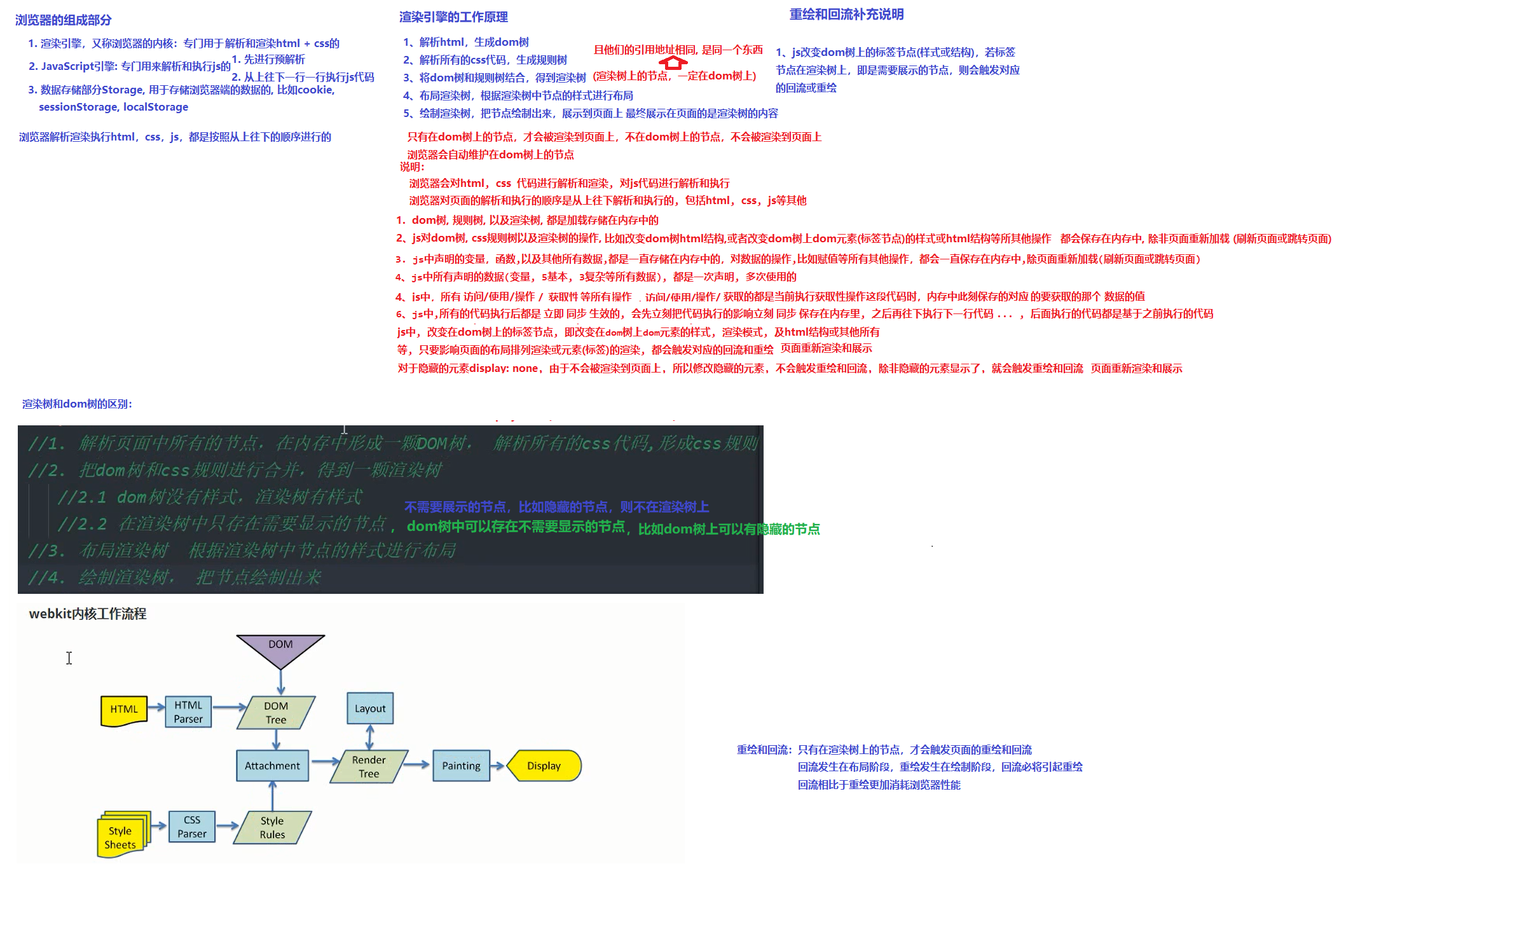
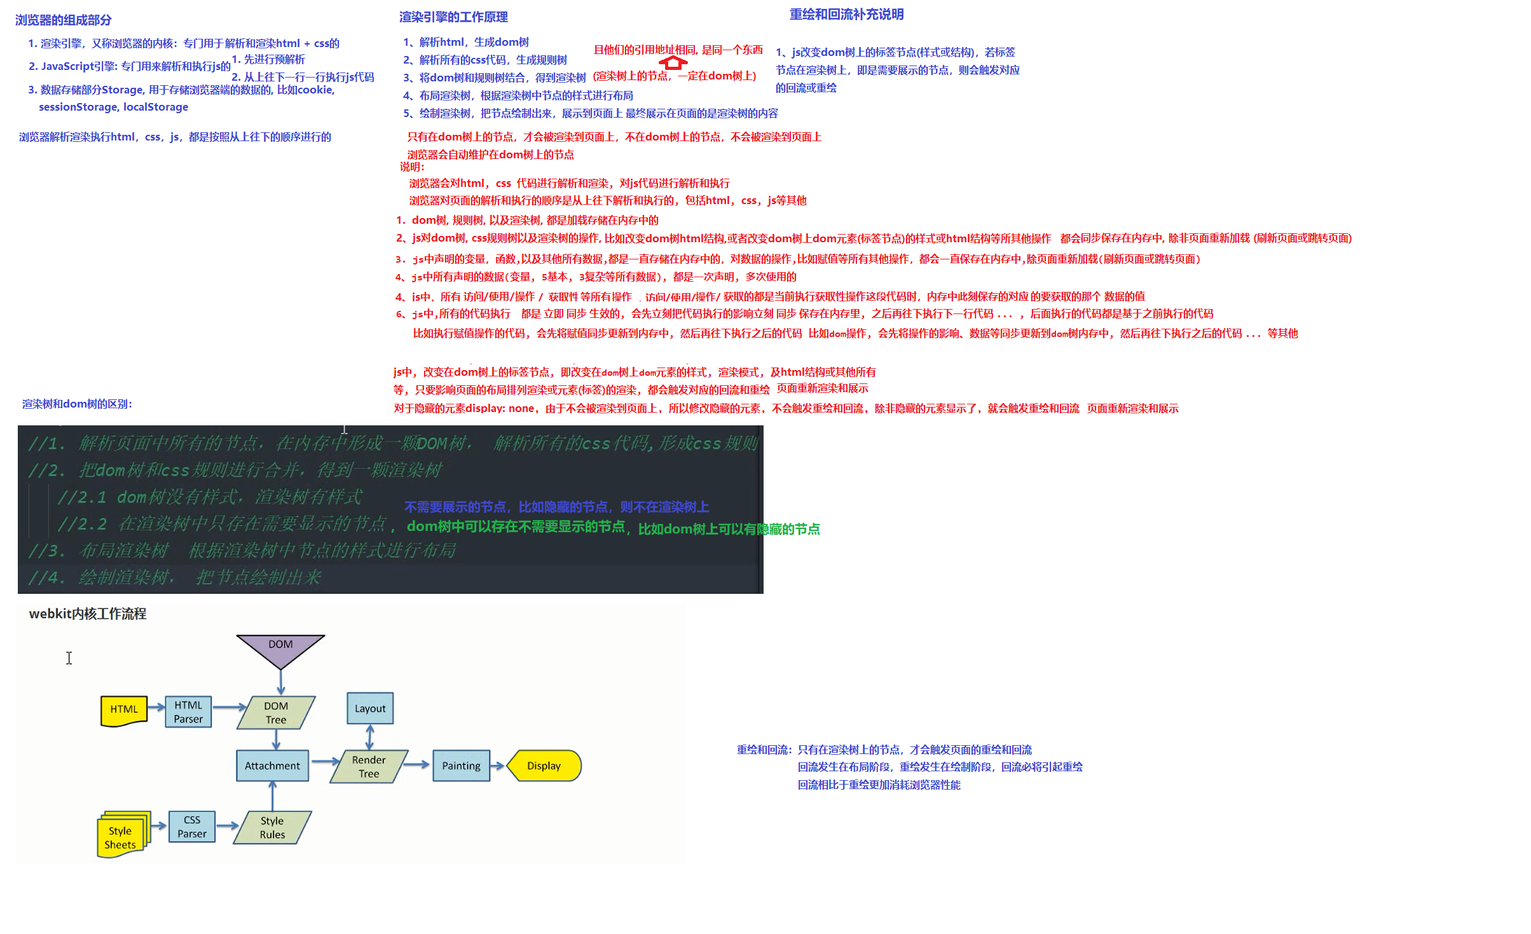
0316-02

Changed region(s): [[0.2492, 0.337, 0.8409, 0.4595], [0.7164, 0.2451, 0.8721, 0.2757]]

diff --git a/01-JavaScript基础/day01/02-代码/day01-code/12-字符串.html b/01-JavaScript基础/day01/02-代码/day01-code/12-字符串.html
@@ -9,12 +9,14 @@
     <script>
 
       // 简单数据类型 二  字符串类型  string
-      
+
       // 带有 ''单引号 或者 ""双引号  包裹的数据,,就是字符串
       // ★ 字符串要么都用单引号包裹, 要么都用双引号包裹
       // 单引号'' 和 双引号"" 包裹的数据, 都是字符串, 用'和"没差别
       // 即 '1' === "1"  => true
       // ''和""也是字符串, 且字符串中什么内容都没有, 也叫做空串, 空串长度为0
+
+      // 字符串也是基本数据类型之一, 即 字符串也是值类型数据, 存储的是值本身
 
       // 单引号性能比双引号好, 更快
 
@@ -32,8 +34,8 @@
       console.log(num2);
       console.log(typeof num2);
 
-      // 如何区分 数字类型和字符串类型 
-      //方式1 : 看有没有引号 
+      // 如何区分 数字类型和字符串类型
+      //方式1 : 看有没有引号
       //方式2 : typeof
       // 数字类型 => number
       // 字符串类型 =>string
@@ -42,17 +44,17 @@
       // ps: 通过console.log在控制台输出字符串, 是黑色的, 但是不会打印两边的"或' .
 
 
-      //1. 字符串的长度   length => 字符个数 是一个数字类型  
+      //1. 字符串的长度   length => 字符个数 是一个数字类型
       //   一个中文 占 一个长度 .   var str = '你好啊', str.length => 3
       var str = 'abcdefgdgd';
       console.log(str.length);  //10
-      
+
 
       //2. 转义符  一句话  :  我姓'熏',我叫孙悟空
-      //总结 : 
+      //总结 :
       //1. 引号可以相互嵌套的,,但是不能嵌套自己类型
       // 单引号可以嵌套双引号,双引号可以嵌套单引号, 嵌套之后还是一整个字符串, 单不能嵌套单,双不能嵌套双
-      //2. 转义符 
+      //2. 转义符
       // \' =>'
       // \" =>"
       // \\ => \
@@ -64,8 +66,8 @@
       console.log(num2); // 我姓"居",我叫猪八戒
 
       // var num3 = 我姓'瞎',我叫"沙"悟净
-      //转义符 \ 
-      // \' => ' 
+      //转义符 \
+      // \' => '
       // \" => "
       // \\ => \
       var num3 = '我姓\'瞎\',我叫"沙"悟净';
@@ -88,33 +90,33 @@
       var num2 = 10;
       console.log( num1 + num2); //30
       console.log(typeof (num1 + num2)); //number
-      
+
       // 第三种情况  字符串 + 数字 或 数字 + 字符串 => 拼接 => 结果是字符串string
       // var num1 = 'abc';
       // var num2 = 123;
-      // console.log(num1 + num2); //abc123 
+      // console.log(num1 + num2); //abc123
 
-      var num1 = '123'; 
+      var num1 = '123';
       var num2 = 123;
       console.log(num1 + num2); //123123
       console.log(typeof (num1 + num2));  //string
-      
-      
-
-      
 
 
 
-      
-      
-      
+
+
+
+
+
+
+
 
 
 
       //3.
-      
-      
-      
+
+
+
 
 
 

diff --git a/01-JavaScript基础/day01/02-代码/day01-code/01.js.html b/01-JavaScript基础/day01/02-代码/day01-code/01.js.html
@@ -23,10 +23,11 @@ js中, 后面只要没有说是异步的, 则都是同步执行的, 即要等到
     浏览器会对html, css 代码进行解析和渲染, 对js代码进行解析和执行
     浏览器对页面的解析和执行的顺序是从上往下解析和执行的, 包括html, css, js等其他.
 1. dom树,规则树,以及渲染树,都是加载存储在内存中的
-2. js对dom树, css规则树以及渲染树的操作,比如改变dom树htm结构,或者改变dom树上dom元素(标签节点)的样式或html结构等所其他操作都会保存在内存中, 除非页面重新加载(刷新页面或跳转页面)
+2. js对dom树, css规则树以及渲染树的操作,比如改变dom树htm结构,或者改变dom树上dom元素(标签节点)的样式或html结构等所其他操作都会同步保存在内存中, 除非页面重新加载(刷新页面或跳转页面)
 3. js中声明的变量，函数,以及其他所有数据,都是一直存储在内存中的，对数据的操作,比如赋值等所有其他操作，都会一直保存在内存中,除页面重新加载(刷新页面或跳转页面)
 4、js中所有声明的数据(变量, 5基本, 3复杂等所有数据), 都是一次声明, 多次使用的
 5、js中,所有访问/使用/操作/获取性等所有操作,获取的都是访问/使用/操作/获取当前执行获取性操作这段代码时，内存中此刻保存的对应的要获取的那个数据的值
-6、js中,所有的代码执行后都是 立即 同步 生效的, 会先立刻把代码执行的影响立刻 同步 保存在内存里, 之后再往下执行下一行代码 ... , 后面执行的代码都是基于之前执行的代码
+6、js中,所有的代码执行都是 立即 同步 生效的, 会先立刻把代码执行的影响立刻 同步 保存在内存里, 之后再往下执行下一行代码 ... , 后面执行的代码都是基于之前执行的代码
+   比如执行赋值操作的代码, 会先将赋值同步更新到内存中, 然后再往下执行之后的代码, 比如dom操作, 会先将操作的影响、数据等同步更新到dom树内存中, 然后再往下执行之后的代码 ... 等其他
 js中，改改在dom树上的标签节点，即改变在dom树上dom元素的样式渲染模式,及html结构或其他所有等,只要影响页面的布局排列渲染或元素(标签)的渲染，都会触发对应的回流和重绘
 对于隐藏的元素display: none,不会被渲染到页面上,所以修改隐藏的元素,不会触发重绘和回流，除非隐藏的元素显示了,就会触发重绘和回流

diff --git a/02-WebAPIs编程/补充-重绘回流-面试题.html b/02-WebAPIs编程/补充-重绘回流-面试题.html
@@ -107,12 +107,12 @@
 		// 浏览器会对html, css 代码进行解析和渲染, 对js代码进行解析和执行
 		// 浏览器对页面的解析和执行的顺序是从上往下解析和执行的, 包括html, css, js等其他
 		// 1. dom树,规则树,以及渲染树,都是加载存储在内存中的
-		// 2. js对dom树, css规则树以及渲染树的操作,比如改变dom树htm结构,或者改变dom树上dom元素(标签节点)的样式或html结构等所其他操作都会保存在内存中, 除非页面重新加载(刷新页面或跳转页面)
+		// 2. js对dom树, css规则树以及渲染树的操作,比如改变dom树htm结构,或者改变dom树上dom元素(标签节点)的样式或html结构等所其他操作都会同步保存在内存中, 除非页面重新加载(刷新页面或跳转页面)
 		// 3. js中声明的变量，函数,以及其他所有数据,都是一直存储在内存中的，对数据的操作,比如赋值等所有其他操作，都会一直保存在内存中,除页面重新加载(刷新页面或跳转页面)
 		// 4、js中所有声明的数据(变量, 5基本, 3复杂等所有数据), 都是一次声明, 多次使用的
 		// 5、js中,所有访问/使用/操作/获取性等所有操作,获取的都是访问/使用/操作/获取当前执行获取性操作这段代码时，内存中此刻保存的对应的要获取的那个数据的值
-		// 6、js中,所有的代码执行后都是 立即 同步 生效的, 会先立刻把代码执行的影响立刻 同步 保存在内存里, 之后再往下执行下一行代码 ... , 后面执行的代码都是基于之前执行的代码
-
+		// 6、js中,所有的代码执行都是 立即 同步 生效的, 会先立刻把代码执行的影响立刻 同步 保存在内存里, 之后再往下执行下一行代码 ... , 后面执行的代码都是基于之前执行的代码
+		//    比如执行赋值操作的代码, 会先将赋值同步更新到内存中, 然后再往下执行之后的代码; 比如dom操作, 会先将操作的影响、数据等同步更新到dom树内存中, 然后再往下执行之后的代码 ... 等其他
 		// js中，改改在dom树上的标签节点，即改变在dom树上dom元素的样式渲染模式,及html结构或其他所有等,只要影响页面的布局排列渲染或元素(标签)的渲染，都会触发对应的回流和重绘
 		// 对于隐藏的元素display: none,不会被渲染到页面上,所以修改隐藏的元素,不会触发重绘和回流，除非隐藏的元素显示了,就会触发重绘和回流
 	</script>

diff --git a/03-JavaScript高级/day03/04-上课代码/07-js是单线程和js的事件轮询机制.html b/03-JavaScript高级/day03/04-上课代码/07-js是单线程和js的事件轮询机制.html
@@ -27,12 +27,12 @@
   // 浏览器会对html, css 代码进行解析和渲染, 对js代码进行解析和执行
   // 浏览器对页面的解析和执行的顺序是从上往下解析和执行的, 包括html, css, js等其他.
   // 1. dom树,规则树,以及渲染树,都是加载存储在内存中的
-  // 2. js对dom树, css规则树以及渲染树的操作,比如改变dom树htm结构,或者改变dom树上dom元素(标签节点)的样式或html结构等所其他操作都会保存在内存中, 除非页面重新加载(刷新页面或跳转页面)
+  // 2. js对dom树, css规则树以及渲染树的操作,比如改变dom树htm结构,或者改变dom树上dom元素(标签节点)的样式或html结构等所其他操作都会同步保存在内存中, 除非页面重新加载(刷新页面或跳转页面)
   // 3. js中声明的变量，函数,以及其他所有数据,都是一直存储在内存中的，对数据的操作,比如赋值等所有其他操作，都会一直保存在内存中,除页面重新加载(刷新页面或跳转页面)
   // 4、js中所有声明的数据(变量, 5基本, 3复杂等所有数据), 都是一次声明, 多次使用的
   // 5、js中,所有访问/使用/操作/获取性等所有操作,获取的都是访问/使用/操作/获取当前执行获取性操作这段代码时，内存中此刻保存的对应的要获取的那个数据的值
-  // 6、js中,所有的代码执行后都是 立即 同步 生效的, 会先立刻把代码执行的影响立刻 同步 保存在内存里, 之后再往下执行下一行代码 ... , 后面执行的代码都是基于之前执行的代码
-
+  // 6、js中,所有的代码执行都是 立即 同步 生效的, 会先立刻把代码执行的影响立刻 同步 保存在内存里, 之后再往下执行下一行代码 ... , 后面执行的代码都是基于之前执行的代码
+//      比如执行赋值操作的代码, 会先将赋值同步更新到内存中, 然后再往下执行之后的代码; 比如dom操作, 会先将操作的影响、数据等同步更新到dom树内存中, 然后再往下执行之后的代码 ... 等其他
   // js中，改改在dom树上的标签节点，即改变在dom树上dom元素的样式渲染模式,及html结构或其他所有等,只要影响页面的布局排列渲染或元素(标签)的渲染，都会触发对应的回流和重绘
   // 对于隐藏的元素display: none,不会被渲染到页面上,所以修改隐藏的元素,不会触发重绘和回流，除非隐藏的元素显示了,就会触发重绘和回流
 

diff --git a/02-WebAPIs编程/day03/04-上课代码/03-DOM树.html b/02-WebAPIs编程/day03/04-上课代码/03-DOM树.html
@@ -38,12 +38,12 @@
 // 浏览器会对html, css 代码进行解析和渲染, 对js代码进行解析和执行
 // 浏览器对页面的解析和执行的顺序是从上往下解析和执行的, 包括html, css, js等其他.
 // 1. dom树,规则树,以及渲染树,都是加载存储在内存中的
-// 2. js对dom树, css规则树以及渲染树的操作,比如改变dom树htm结构,或者改变dom树上dom元素(标签节点)的样式或html结构等所其他操作都会保存在内存中, 除非页面重新加载(刷新页面或跳转页面)
+// 2. js对dom树, css规则树以及渲染树的操作,比如改变dom树htm结构,或者改变dom树上dom元素(标签节点)的样式或html结构等所其他操作都会同步保存在内存中, 除非页面重新加载(刷新页面或跳转页面)
 // 3. js中声明的变量，函数,以及其他所有数据,都是一直存储在内存中的，对数据的操作,比如赋值等所有其他操作，都会一直保存在内存中,除页面重新加载(刷新页面或跳转页面)
 // 4、js中所有声明的数据(变量, 5基本, 3复杂等所有数据), 都是一次声明, 多次使用的
 // 5、js中,所有访问/使用/操作/获取性等所有操作,获取的都是访问/使用/操作/获取当前执行获取性操作这段代码时，内存中此刻保存的对应的要获取的那个数据的值
-// 6、js中,所有的代码执行后都是 立即 同步 生效的, 会先立刻把代码执行的影响立刻 同步 保存在内存里, 之后再往下执行下一行代码 ... , 后面执行的代码都是基于之前执行的代码
-
+// 6、js中,所有的代码执行都是 立即 同步 生效的, 会先立刻把代码执行的影响立刻 同步 保存在内存里, 之后再往下执行下一行代码 ... , 后面执行的代码都是基于之前执行的代码
+//    比如执行赋值操作的代码, 会先将赋值同步更新到内存中, 然后再往下执行之后的代码; 比如dom操作, 会先将操作的影响、数据等同步更新到dom树内存中, 然后再往下执行之后的代码 ...  等其他
 // js中，改改在dom树上的标签节点，即改变在dom树上dom元素的样式渲染模式,及html结构或其他所有等,只要影响页面的布局排列渲染或元素(标签)的渲染，都会触发对应的回流和重绘
 // 对于隐藏的元素display: none,不会被渲染到页面上,所以修改隐藏的元素,不会触发重绘和回流，除非隐藏的元素显示了,就会触发重绘和回流
 

diff --git a/01-JavaScript基础/day05/02-代码/day05-code/06-匿名函数.html b/01-JavaScript基础/day05/02-代码/day05-code/06-匿名函数.html
@@ -89,7 +89,7 @@
     //       函数体中查找/访问/使用/操作/赋值变量的规则: 先在函数体中查找, 若找到则直接使用, 并停止查找, 如果没有找到, 再从函数的 ★★★声明所在处, 沿着作用域链往上级链找, 找到就使用, 且停止查找, 后面同词法作用域2.3.4点
     //    9. 只有函数才可以 加 () 调用
     //    10. 函数中可以调用其他函数, 是同步调用
-    //    11. 函数调用结束后, 函数中声明的变量和函数等数据都会存储在函数的内存里, 保持数据, 不会消失
+    //    11. 函数调用结束后, 函数中声明的局部变量和函数等数据都会存储在函数的内存里, 保持数据, 不会消失
     //    12. 只要是函数, 不管在什么地方, 都是一次声明, 可以被多次调用
     //    13. 函数也可以看作是变量, 变量名为函数名, 变量值为函数的引用地址
     //    14. 函数调用,执行完函数体后,函数和函数中的变量不会消失,会继续存储在对应内存中,对于相同作用域内声明同名的变量,后声明的变量会把之前声明的变量覆盖
@@ -98,7 +98,7 @@
     //  ★★★ 关于自调用函数沙箱说明:
     //    1. 自调用函数 是 函数的 声明 + 调用一次 也称为沙箱 (function() {...})(); 会保持函数中的数据在函数中
     //       自调用函数若是匿名函数, 则只能被调用一次, 如果不是匿名函数, 则后续还可以被调用.
-    //    2. 自调用函数调用后, 函数中的变量, 函数等数据都会继续存储在自调用函数的内存里,并且保持数据, 不会消失
+    //    2. 自调用函数调用后, 函数中声明的局部变量, 函数等数据都会继续存储在自调用函数的内存里,并且保持数据, 不会消失
     //    3. 自调用函数(沙箱)的作用, 在函数内部形成一个局部空间, 保护函数内部的局部变量, 函数, 数据不被全局和其他函数污染
     //        说明: 由作用域可以知道, 沙箱外是无法访问沙箱内的变量, 函数的, 所以沙箱外是无法对沙箱内的变量和函数进行篡改的
     //              除非沙箱自己把内部的变量, 和函数 暴露到全局(通过window. ), 这样全局就可以访问沙箱内暴露出去的数据了.

diff --git a/04-jQuery快速开发/day01/04-代码/12.css选择器.html b/04-jQuery快速开发/day01/04-代码/12.css选择器.html
@@ -23,7 +23,7 @@
     <script>
         $(function(){
             // 页面中 html标签 在jq中也叫做 ★★★ 元素(jq对象) 在jq中, 元素(jq对象)就是html标签  jq中也是通过操作元素(jq对象) 来达到操作页面上标签的目的
-            // jq通过$("选择器")批量获取 ★★★当前 页面 ★ 满足选择器条件 的 ★★★ 所有 元素 (就是标签),★★★ 得到的(返回的) 都是 ★ 一个 ★jq对象, jq对象都是一个 ★ 伪数组, 里面存储着获取到的满足条件的所有dom元素(就是标签), 存储顺序为页面从上到下获取的顺序
+            // jq通过$("选择器")批量获取 ★★★当前 页面 ★ 满足选择器条件 的 ★★★ 所有 元素 (就是标签),★★★ 得到的(返回的) 都是 ★ 一个 ★jq对象, jq对象都是一个 ★ 伪数组, 里面存储着获取到的满足条件的所有dom元素(就是标签), 存储顺序为页面从上到下获取的顺序, 因为获取是按页面从上到下的顺序进行获取的
             // jq中$("选择器") 是用来批量获取页面标签的,也只能获取页面上的标签节点 最后返回一个jq对象. 是一个伪数组
             // '选择器' 为选择器字符串, 可以包含多个选择条件, css选择器、过滤选择器. 之后涉及到 '选择器' 也一样
             // 如果没有获取到元素, 则返回一个jq对象, 空的伪数组, 里面没有存储dom元素, length为0

diff --git a/01-JavaScript基础/day04/02-代码/day04-code/04-函数的声明与调用.html b/01-JavaScript基础/day04/02-代码/day04-code/04-函数的声明与调用.html
@@ -43,7 +43,7 @@
     // 需要调用它,才能执行函数体中的代码 (即调用函数,才会执行函数体中的代码), 每次调用, 执行一次函数体, 且调用函数是同步执行的, 要等到函数调用结束, 才会继续往下执行函数调用处之后的代码
     // 函数可以多次调用 (一次声明,多次调用),每次调用都会执行函数体,拿到的数据都当前内存里的数据值, 是最新的
     // 函数一次声明, 可以多次使用
-    // ★★★ 函数调用后不会消失 还会存在内存里 函数里的变量也不会消失 也会存在内存里 保持数据  一次声明 多次调用 但是每次调用函数体的代码都会执行一次
+    // ★★★ 函数调用后不会消失 还会存在内存里 函数里声明的局部变量也不会消失 也会存在内存里 保持数据  一次声明 多次调用 但是每次调用函数体的代码都会执行一次
     // 函数如果不调用,,将毫无意义
     // 函数调用,执行完函数体后,函数和函数中的变量和数据不会消失,会继续存储在函数对应内存中, 多次调用函数, 对于相同作用域内声明同名的变量,后声明的变量会把之前声明的变量覆盖
     // 函数的调用

diff --git a/02-WebAPIs编程/day02/04-上课代码/02-操作表单元素的属性.html b/02-WebAPIs编程/day02/04-上课代码/02-操作表单元素的属性.html
@@ -12,7 +12,7 @@
    // 取值: 元素.属性名
    // 赋值/修改/添加: 元素.属性名 = 值 (一般值为字符串) (不存在就设置, 存在就修改)
 //  value
-//  ps: 表单标签中, 只要是能输入内容的, 获取和设置输入的内容都是通过表单元素的value属性, 且value属性值是字符串, 且和输入的内容一一对应, 默认值为'', 空串, 因为初始的时候输入框中什么内容都没有
+//  ps: 表单标签中, 只要是能输入内容的, 获取和设置输入的内容都是通过表单元素的value属性, 且value属性值是字符串, 且和输入的内容一一对应, value属性值默认值为'', 空串, 因为初始的时候输入框中什么内容都没有
 //  ps: 表单标签 输入框的值 始终 与 表单元素的value属性值自动保持一致, value属性值会随着输入框的内容变化而自动改变; 也可以通过设置表单元素的value属性的属性值, 来改变输入框中的内容.
 //  ps: 表单标签中输入框中的值(内容), 一定是一个字符串, 获取输入框的value值, 得到的一定是字符串
   var input = document.querySelector('input');

diff --git a/02-WebAPIs编程/day01/04-上课代码/02-获取页面元素.html b/02-WebAPIs编程/day01/04-上课代码/02-获取页面元素.html
@@ -67,6 +67,7 @@
 //          伪数组也可以遍历,和数组遍历一致(伪数组可以使用for循环遍历)  下标 0 ~ arr.length - 1
 //    ★★★ 在后续一些操作中要求元素的(比如操作元素的属性等),不能使用伪数组,而是要将伪数组中的元素一个个拿出来 才能使用
 //    伪数组也是一个对象,值为引用地址
+//    批量获取元素得到元素伪数组的, 伪数组中元素的存储顺序按照html结构中元素的从上到下顺序排列顺序, 因为获取是按照页面从上到下依次获取的
 
 //    注意: 在js中任何地方都可以获取元素 和 操作元素
 //    ps: 浏览器会自动维护dom元素, 即就算之前获取的dom元素, 如果浏览器操作或者dom操作, 使得dom元素中的属性发生改变, 则之前获取的dom元素, 也会做出相应的改变, 这是浏览器自动为我们维护的

diff --git a/01-JavaScript基础/day01/02-代码/day01-code/21-比较运算符.html b/01-JavaScript基础/day01/02-代码/day01-code/21-比较运算符.html
@@ -11,7 +11,10 @@
 
       // 比较运算符  > < >= <= == === != !==  返回的结果(得到的值)一定是布尔类型 true 或 false
       // 注意: > < >= <= 比较的只是内容
+      // 注意: 字符串也是简单数据类型, 即也是值类型数据, 存储的是值本身, 所以字符串也可以使用比较运算符, 比较的是值本身
       // 比较运算符两侧可以是变量, 表达式或函数的调用, 变量取变量的值进行比较, 表达式或函数的调用, 先执行表达或函数的调用, 然后取最终的结果进行比较
+      // 如果是值类型数据, 则比较的是值本身, 如果是引用数据类型, 则比较的是引用地址
+      // 总结: 比较运算符两边若有变量, 则比较的是变量中存储着的值！！！
       // console.log( 2 >= 2); // 大于或者 ==
 
       // == (等于)   === (全等于  恒等于)

diff --git a/00-html+css基础/day02/04-源代码/04-合并单元格.html b/00-html+css基础/day02/04-源代码/04-合并单元格.html
@@ -5,13 +5,13 @@
 	<title>Document</title>
 </head>
 <body>
-	
-	单元格的合并： 
+
+	单元格的合并： 都是写在td上的
 	跨行合并  rowspan （属性） 上下合并  写在上面的单元格上  合并几个这个值就是几  一旦合并了  那么多余的那个单元格需要干掉
 	跨列合并  colspan （属性）  左右合并  写在左边的单元格上  合并几个这个值就是几  一旦合并了  那么多余的那个单元格需要干掉
 
 	<table border="1" width="800" height="800" cellspacing="0" cellpadding="0" align="center">
-		
+
 		<caption>25期成绩管理系统</caption>
 
 		<thead>
